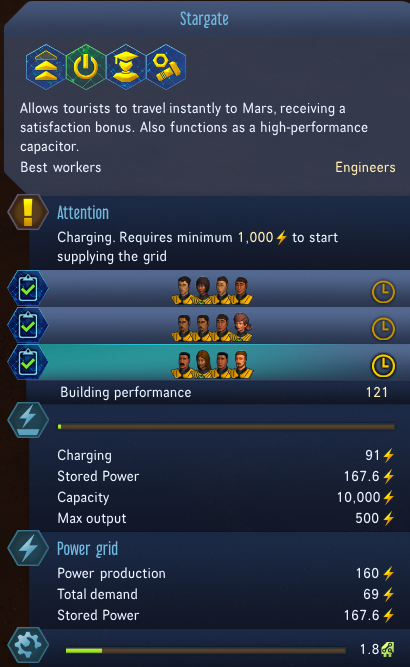
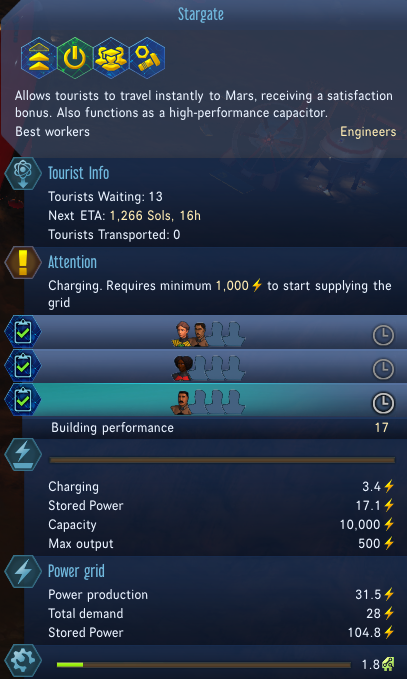
## Version 1.2  - Changed to an outside building with a larger model  - Bad things happen if the gate fires whilst not working  - Added InfoPanel with details about tourist travel via Stargate

diff --git a/README.md b/README.md
@@ -10,14 +10,6 @@ Stargate also operates as a high-performance capacitor.
 
 ![InfoPanel](Images/infopanel.png)
 
-### Options:
-This mod has no options... yet!
-
-    Which is it?
-        2B
-        !2B
-
-
 ## Notes:
 If you have any feedback please contact me directly instead of reporting the mod. I'm always happy to take requests as well.<br>
 I hang out in [*Discord*](https://discord.gg/kTgYq9UjWx) and on [*Reddit*](https://www.reddit.com/user/Fizzle_Fuze)
@@ -36,18 +28,23 @@ Have a good game,<br>
 ### Contact Me:
 I appreciate feedback on my mods and ideas for new ones!
  - Discord:https://discord.gg/kTgYq9UjWx
- -  Reddit: /u/Fizzle_Fuze (/r/SurvivingMars)
+ - Reddit: /u/Fizzle_Fuze (/r/SurvivingMars)
+ - Email: mods@fizzlefuze.com
  -  GitHub: https://github.com/Surviving-Mars-Mods
- -  Email: mods@fizzlefuze.com
 
 See [*Info/ContactMe.txt*](Info/ContactMe.txt) for more info on contacting me. 
 
 ### Other Locations:
-My mods are also available on Steam and the Paradox Website:
+My mods are available on Steam, the Paradox Website, as well as GitHub:
 
 [Steam Workshop](https://steamcommunity.com/id/fizzle_fuze/myworkshopfiles/?appid=464920) <br>
-[Paradox Plaza](https://mods.paradoxplaza.com/games/surviving_mars?search=Fizzle_Fuze&sortBy=best)
+[Paradox Plaza](https://mods.paradoxplaza.com/games/surviving_mars?search=Fizzle_Fuze&sortBy=best) <br>
+[GitHub](https://github.com/Surviving-Mars-Mods)
 
+### Special Thanks
+- Thanks to everyone who has helped me learning to Mod better.
+- Thanks to ChoGGi for his excellent excellent examples and helpful attitude.
+- Thanks to everyone who enjoys my Mods and provides feedback on them.
 
 ### License:
  See [*Info/License.md*](Info/license.md) and [*Info/LICENSE*](Info/LICENSE) for copyright and licensing info.

diff --git a/Info/changelog.md b/Info/changelog.md
@@ -1,4 +1,9 @@
-## Version 1.1
+## Version 1.2
+ - Changed to an outside building with a larger model
+ - Bad things happen if the gate fires whilst not working
+ - Added InfoPanel with details about tourist travel via Stargate
+
+### Version 1.1
  - Initial Release
 
 ### Version 1.0
